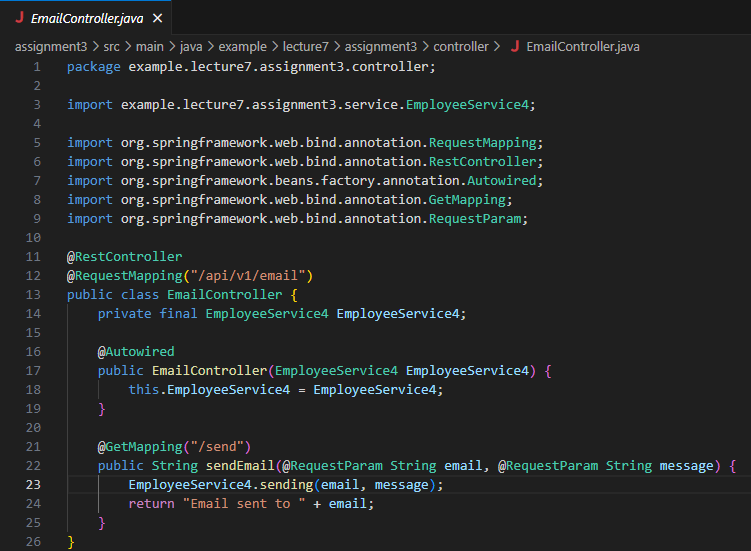
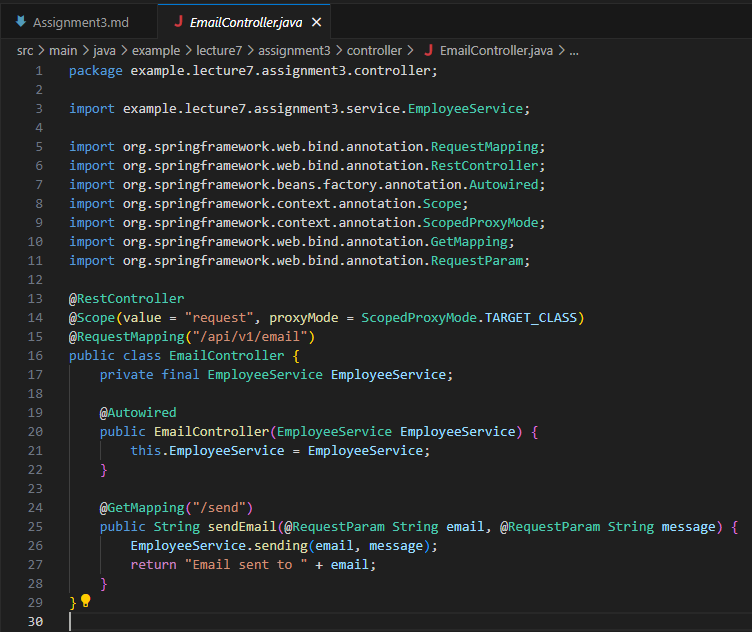
Fix: Assignment 03 - Lecture 07
- Assignment 03 - Lecture 07 Fix in Controller and Service

Changed region(s): [[0.0, 0.0, 0.8575, 1.0], [0.0919, 0.7713, 0.98, 1.0]]

diff --git a/Week 04/Lecture 07/Assignment 03/assignment3/src/main/java/example/lecture7/assignment3/controller/EmailController.java b/Week 04/Lecture 07/Assignment 03/assignment3/src/main/java/example/lecture7/assignment3/controller/EmailController.java
@@ -1,26 +1,29 @@
 package example.lecture7.assignment3.controller;
 
-import example.lecture7.assignment3.service.EmployeeService4;
+import example.lecture7.assignment3.service.EmployeeService;
 
 import org.springframework.web.bind.annotation.RequestMapping;
 import org.springframework.web.bind.annotation.RestController;
 import org.springframework.beans.factory.annotation.Autowired;
+import org.springframework.context.annotation.Scope;
+import org.springframework.context.annotation.ScopedProxyMode;
 import org.springframework.web.bind.annotation.GetMapping;
 import org.springframework.web.bind.annotation.RequestParam;
 
 @RestController
+@Scope(value = "request", proxyMode = ScopedProxyMode.TARGET_CLASS)
 @RequestMapping("/api/v1/email")
 public class EmailController {
-    private final EmployeeService4 EmployeeService4;
+    private final EmployeeService EmployeeService;
 
     @Autowired
-    public EmailController(EmployeeService4 EmployeeService4) {
-        this.EmployeeService4 = EmployeeService4;
+    public EmailController(EmployeeService EmployeeService) {
+        this.EmployeeService = EmployeeService;
     }
 
     @GetMapping("/send")
     public String sendEmail(@RequestParam String email, @RequestParam String message) {
-        EmployeeService4.sending(email, message);
+        EmployeeService.sending(email, message);
         return "Email sent to " + email;
     }
 }

diff --git a/Week 04/Lecture 07/Assignment 03/Assignment3.md b/Week 04/Lecture 07/Assignment 03/Assignment3.md
@@ -78,13 +78,21 @@
 
 ![Service EmailService Interface](img/EmailService%20Interface.PNG)
 
-### Create Service EmailServiceImpl2 Class
+### Create Service EmailServiceImpl Class
 
-![EmailServiceImplementation using @RequestScope](img/EmailServiceImplementation%20with%20RequestScope.PNG)
+![EmailServiceImplementation using @Scope("prototype")](img/EmailServiceImplementation%20with%20Scope.PNG)
 
-### Create Service EmployeeService4 class
+### Create Service EmployeeService class
 
-![Service EmployeeService using Constructor Injection and @RequestScope](img/EmailServiceImplementation%20with%20RequestScope.PNG)
+![Service EmployeeService using Constructor Injection and @Scope("singleton")](img/EmployeeService%20with%20Constructor%20Injection%20use%20Scope.PNG)
+
+### Create Service EmployeeService2 class
+
+![Service EmployeeService using Field Injection and @Scope("singleton")](img/EmployeeService%20with%20Field%20Injection%20use%20Scope.PNG)
+
+### Create Service EmployeeService3 class
+
+![![Service EmployeeService using Setter Injection and @Scope("singleton")]](img/EmployeeService%20with%20Setter%20Injection%20use%20Scope.PNG)
 
 ### Main Application and Running
 
